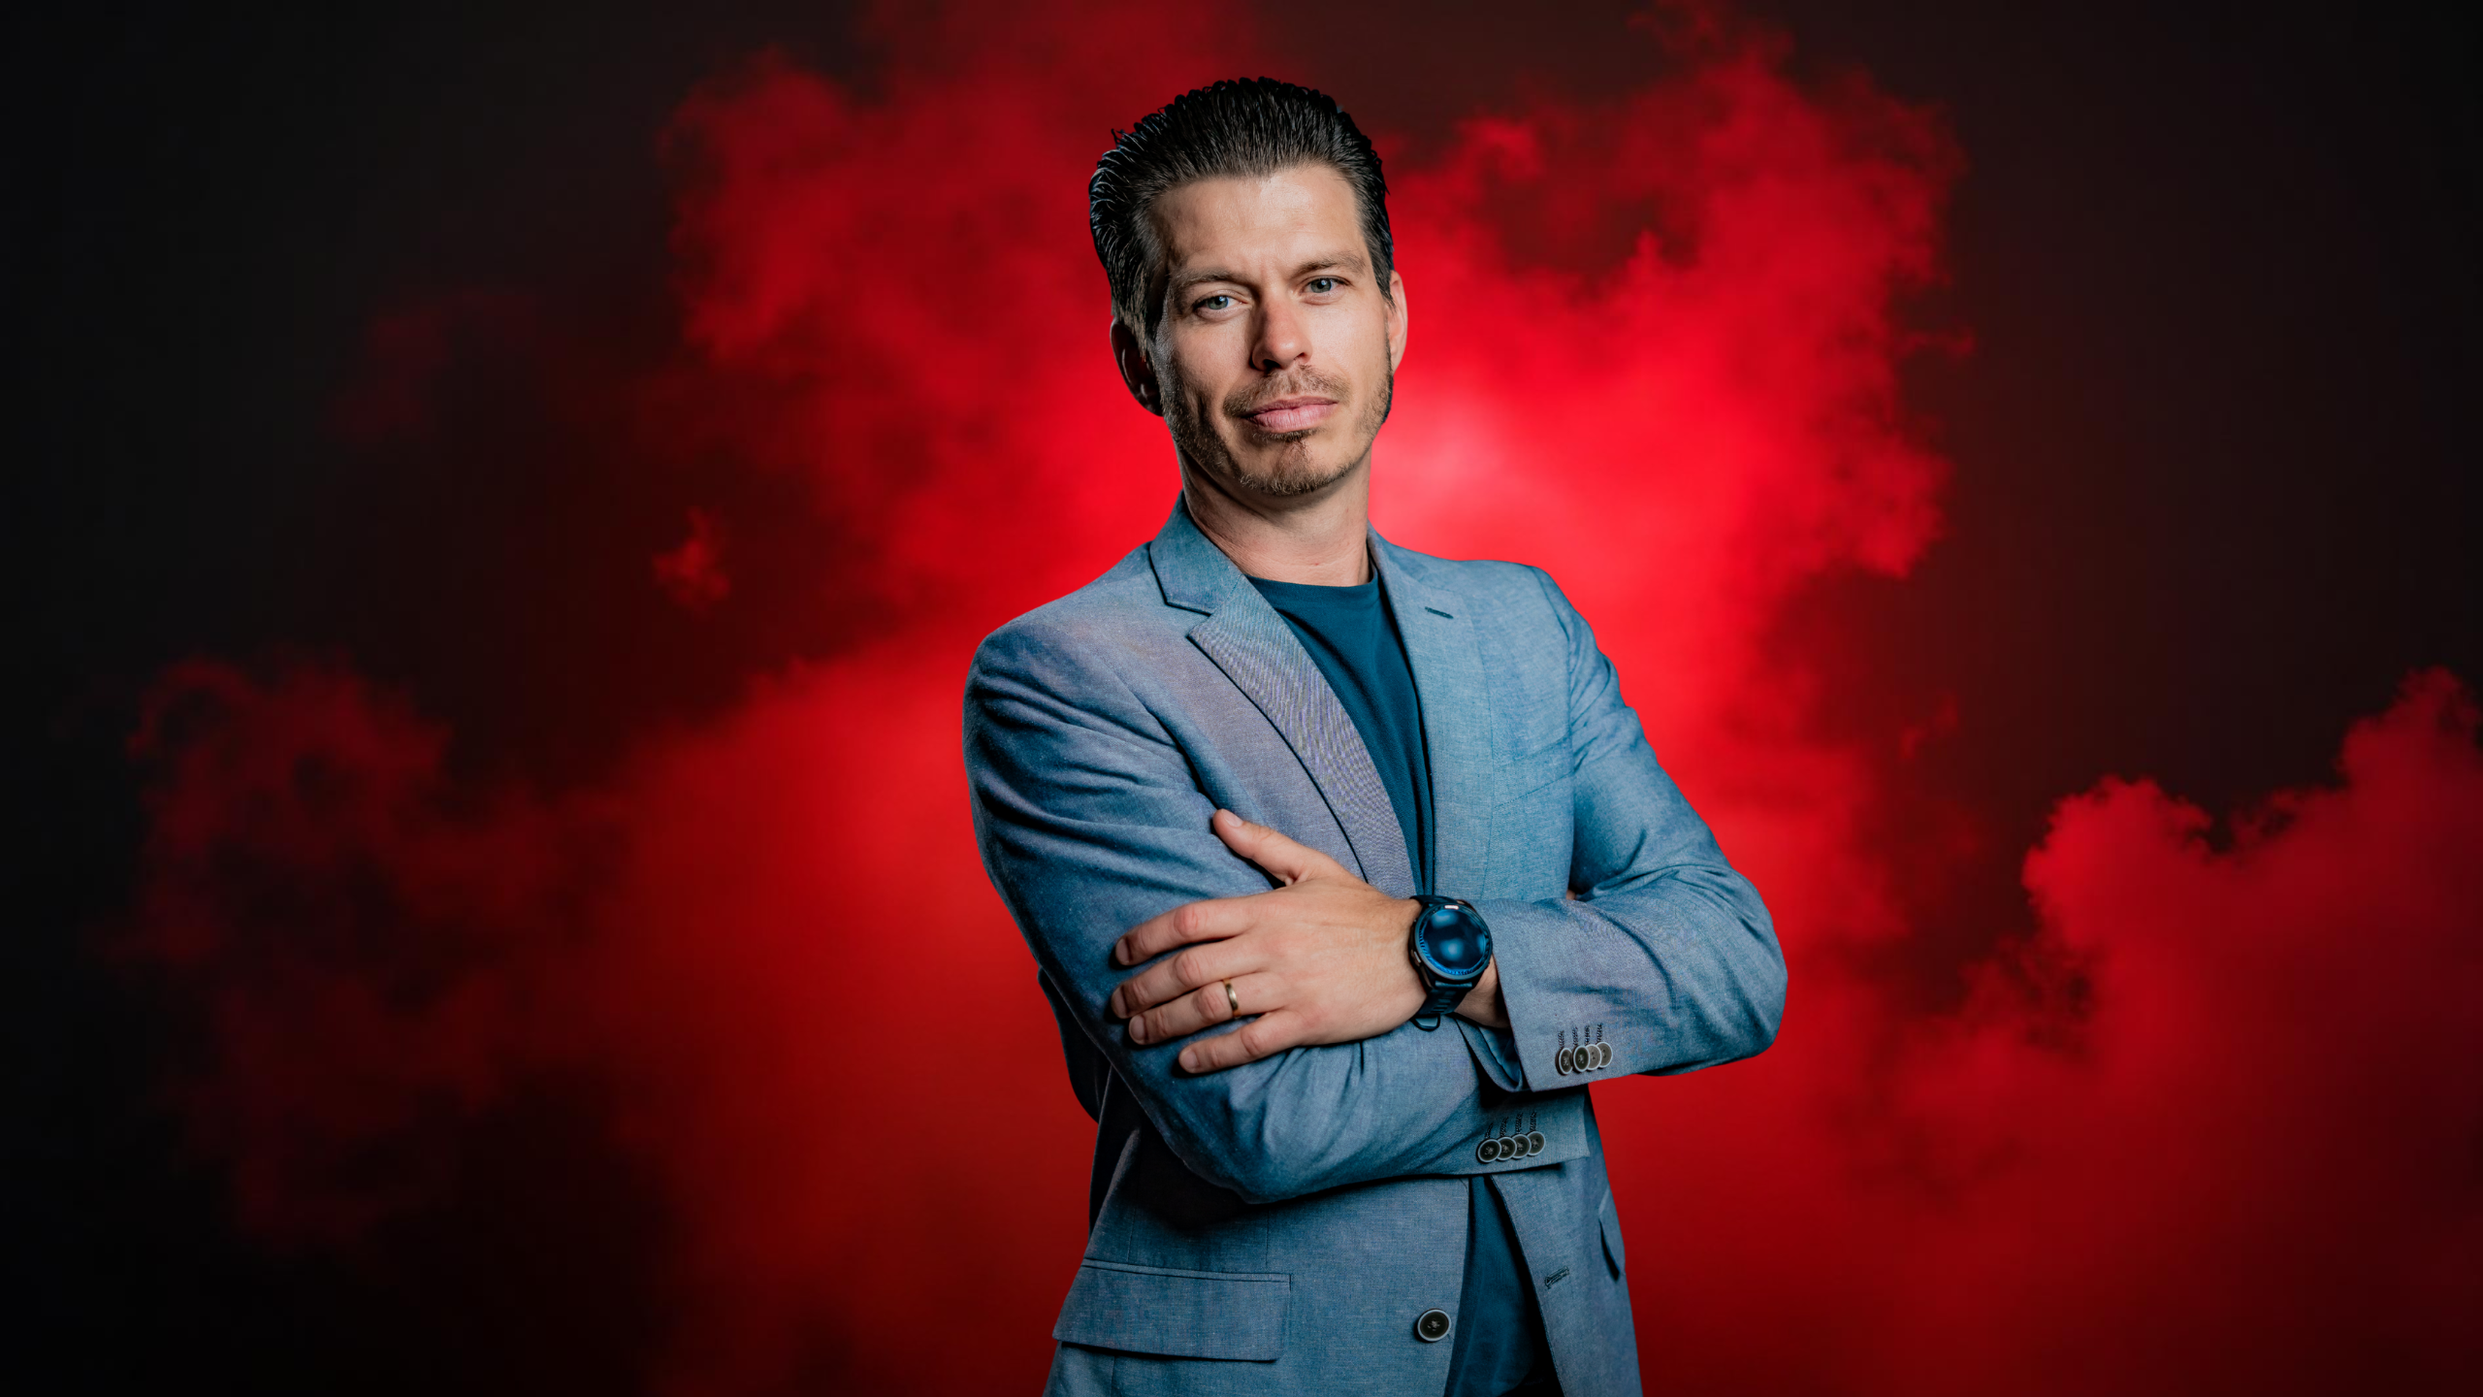
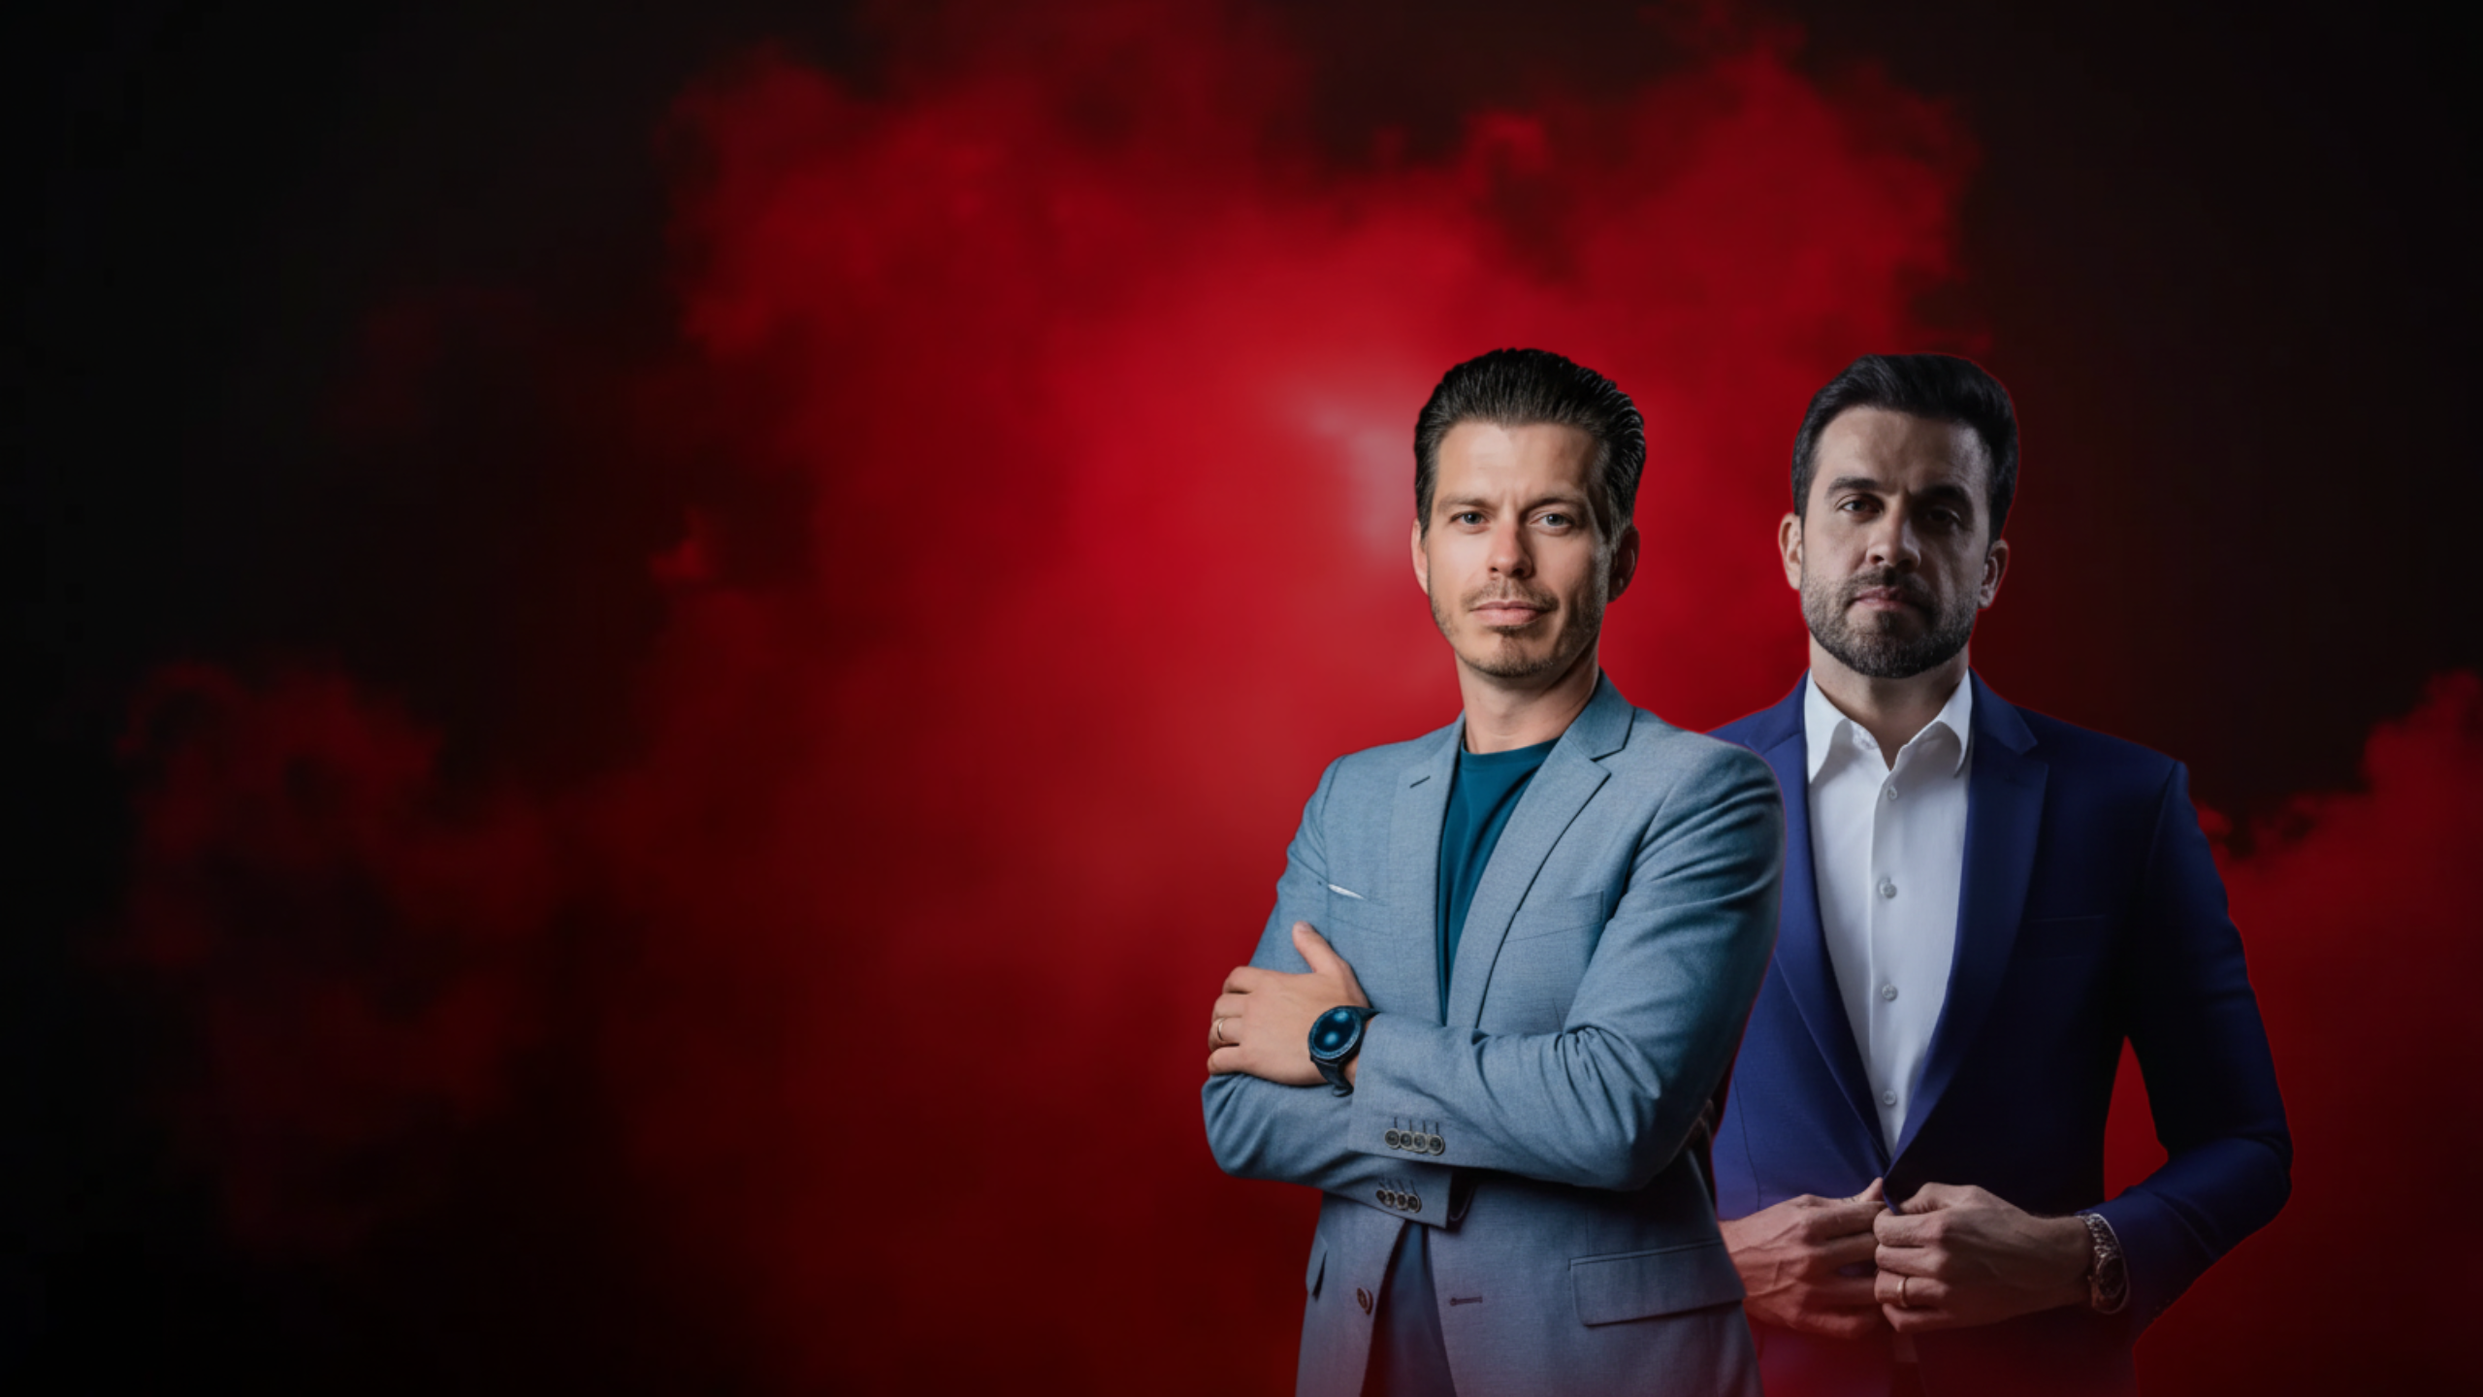
tudo pronto

diff --git a/src/components/HeroSection.tsx b/src/components/HeroSection.tsx
@@ -3,18 +3,31 @@ import { Calendar, MapPin } from "lucide-react";
 import heroImage from "@/assets/hero-image.png";
 import logo from "@/assets/logo.png";
 import { motion } from "framer-motion";
+import imageCelular from "@/assets/heroCelular.png"
+import imageTablete from "@/assets/hero-tablet.png"
+import backmobile from "@/assets/black_red_background.png"
 
 export const HeroSection = () => {
   return (
-    <section className="relative min-h-screen flex items-center justify-center overflow-hidden bg-background pt-16 pb-16 sm:pt-24 sm:pb-24">
-      {/* Background Image */}
+    <section className="relative min-h-screen flex items-center justify-center overflow-hidden bg-background pt-8 pb-16 sm:pt-0 sm:pb-24">
+      
+      {/* Background Image pc */}
       <div
-        className="absolute inset-0 bg-cover bg-center opacity-40"
+        className="absolute inset-0 bg-cover bg-center  hidden md:block"
         style={{ backgroundImage: `url(${heroImage})` }}
       />
 
-      {/* Red Glow Overlay */}
-      <div className="absolute inset-0 bg-gradient-to-r from-background via-transparent to-primary/20" />
+      {/* Background Image tablet */}
+      <div
+        className="absolute inset-0 bg-cover bg-center opacity-80  md:hidden block"
+        style={{ backgroundImage: `url(${backmobile})` }}
+      />
+
+       
+             
+            
+
+
 
       {/* Conteúdo */}
       <div className="container mx-auto px-5 sm:px-8 md:px-10 relative z-10">
@@ -29,76 +42,82 @@ export const HeroSection = () => {
                 className="w-32 sm:w-40 md:w-52 max-w-full"
               />
             </div>
-
-            {/* Informações do Evento */}
-            <div className="hidden sm:flex  flex-wrap justify-center lg:justify-start gap-4 sm:gap-6 text-sm sm:text-base md:text-lg">
-              <div className="flex items-center gap-2">
-                <span className="text-primary">▸</span>
-                <span className="font-semibold">Método REI 26</span>
-              </div>
-              <div className="flex items-center gap-2 text-primary hidden md:inline">
-                <Calendar className="w-4 h-4 sm:w-5 sm:h-5" />
-                <span>06 e 07 Dezembro</span>
-              </div>
-              <div className="flex items-center gap-2 text-primary">
-                <MapPin className="w-4 h-4 sm:w-5 sm:h-5" />
-                <a
-                  href="https://www.google.com.br/maps/place/Crowne+Plaza+Hollywood+Beach/@25.9874362,-80.1200348,17z/"
-                  target="_blank"
-                  rel="noopener noreferrer"
-                  className="hover:underline"
-                >
-                  <span>Abrir no Maps</span>
-                </a>
-              </div>
+            {/* tablete */}
+            <div className="rounded-3xl overflow-hidden hidden sm:block md:hidden shadow-[0_0_25px_rgba(255,0,0,0.3)]">
+              <img src={imageTablete} alt=""/>
             </div>
-            <div className="sm:hidden">
-               <br/>
-                <br/>
-                 <br/>
-                  <br/>
-                   <br/>
+
+             {/* Celular */}
+            <div className="rounded-3xl overflow-hidden sm:hidden shadow-[0_0_25px_rgba(255,0,0,0.3)]">
+              <img src={imageCelular} alt=""/>
             </div>
-           
 
-            {/* Card com animação */}
-            <motion.div
-              initial={{ opacity: 0, y: 80 }}
-              animate={{ opacity: 1, y: 0 }}
-              transition={{ duration: 1.4, ease: "easeOut" }}
-              className="space-y-6  sm:space-y-8 p-5 sm:p-8 md:p-10 rounded-3xl md:bg-white/10 backdrop-blur-xl border border-white/20 shadow-2xl"
-            >
-              {/* Título */}
-              <h2 className="text-2xl sm:text-3xl md:text-4xl lg:text-5xl font-bold leading-snug sm:leading-tight">
-                Em apenas 2 dias, você vai despertar sua verdadeira{" "}
-                <span className="text-primary">IDENTIDADE</span>, alinhar seu{" "}
-                <span className="text-primary">PROPÓSITO</span> e destravar o caminho
-                <br className="hidden md:block" /> para{" "}
-                <span className="text-primary">PROSPERAR</span> em todas as áreas da vida.
-              </h2>
-
-              {/* Descrição */}
-              <p className="text-sm sm:text-base md:text-lg text-muted-foreground leading-relaxed">
-                Em 2 dias, descubra sua IDENTIDADE, alinhe seu PROPÓSITO e prospere em todas as áreas da vida.
-              </p>
-
-              <p className="text-xs sm:text-sm text-muted-foreground leading-relaxed">
-                DOUBLETREE RESORT BY HILTON • 4000 S OCEAN DR. HOLLYWOOD, FL 33019
-              </p>
-
-              {/* Botão CTA */}
-              <div className="flex justify-center lg:justify-start">
-                <a href="https://link.salee.ai/widget/survey/el7zf7YLfRcmP8NN2SM2">
-                <Button
-                  variant="hero"
-                  size="lg"
-                  className="w-full sm:w-auto text-base sm:text-lg px-8 sm:px-12 py-5 h-auto animate-glow"
-                >
-                  QUERO ENTRAR NO MÉTODO IP
-                </Button>
-                </a>
+            
+              {/* Informações do Evento */}
+              <div className="hidden sm:flex  flex-wrap justify-center lg:justify-start gap-4 sm:gap-6 text-sm sm:text-base md:text-lg">
+                <div className="flex items-center gap-2">
+                  <span className="text-primary">▸</span>
+                  <span className="font-semibold">Método REI 26</span>
+                </div>
+                <div className="flex items-center gap-2 text-primary">
+                  <Calendar className="w-4 h-4 sm:w-5 sm:h-5" />
+                  <span>06 e 07 Dezembro</span>
+                </div>
+                <div className="flex items-center gap-2 text-primary">
+                  <MapPin className="w-4 h-4 sm:w-5 sm:h-5" />
+                  <a
+                    href="https://www.google.com.br/maps/place/Crowne+Plaza+Hollywood+Beach/@25.9874362,-80.1200348,17z/"
+                    target="_blank"
+                    rel="noopener noreferrer"
+                    className="hover:underline"
+                  >
+                    <span>Abrir no Maps</span>
+                  </a>
+                </div>
               </div>
-            </motion.div>
+            
+             
+
+
+              {/* Card com animação */}
+              <motion.div
+                initial={{ opacity: 0, y: 80 }}
+                animate={{ opacity: 1, y: 0 }}
+                transition={{ duration: 1.4, ease: "easeOut" }}
+                className="space-y-6  sm:space-y-8 p-5 sm:p-8 md:p-10 rounded-3xl md:bg-white/10 backdrop-blur-xl border border-white/20 shadow-2xl"
+              >
+                {/* Título */}
+                <h2 className="text-xl sm:text-3xl md:text-4xl lg:text-5xl font-bold leading-snug sm:leading-tight">
+                  Em apenas 2 dias, você vai despertar sua verdadeira{" "}
+                  <span className="text-primary">IDENTIDADE</span>, alinhar seu{" "}
+                  <span className="text-primary">PROPÓSITO</span> e destravar o caminho
+                  <br className="hidden md:block" /> para{" "}
+                  <span className="text-primary">PROSPERAR</span> em todas as áreas da vida.
+                </h2>
+
+                {/* Descrição */}
+                <p className="text-sm sm:text-base md:text-lg text-muted-foreground leading-relaxed">
+                  Em 2 dias, descubra sua IDENTIDADE, alinhe seu PROPÓSITO e prospere em todas as áreas da vida.
+                </p>
+
+                <p className="text-xs sm:text-sm text-muted-foreground leading-relaxed">
+                  DOUBLETREE RESORT BY HILTON • 4000 S OCEAN DR. HOLLYWOOD, FL 33019
+                </p>
+
+                {/* Botão CTA */}
+                <div className="flex justify-center lg:justify-start">
+                  <a href="https://link.salee.ai/widget/survey/el7zf7YLfRcmP8NN2SM2">
+                    <Button
+                      variant="hero"
+                      size="lg"
+                      className="w-full sm:w-auto text-sm sm:text-lg px-8 sm:px-12 py-5 h-auto animate-glow"
+                    >
+                      QUERO ENTRAR NO MÉTODO IP
+                    </Button>
+                  </a>
+                </div>
+              </motion.div>
+            
           </div>
         </div>
       </div>

diff --git a/src/components/TargetAudienceSection.tsx b/src/components/TargetAudienceSection.tsx
@@ -2,6 +2,14 @@ import { Card } from "@/components/ui/card";
 import { TrendingUp, Users, Zap } from "lucide-react";
 import { motion } from "framer-motion";
 
+import { Swiper, SwiperSlide } from "swiper/react";
+import { Navigation, Pagination } from "swiper/modules";
+
+import "swiper/css";
+import "swiper/css/navigation";
+import "swiper/css/pagination";
+
+
 const audiences = [
   {
     icon: TrendingUp,
@@ -23,10 +31,16 @@ const audiences = [
   },
 ];
 
+const videos = [
+  "https://player.vimeo.com/video/1083156855?autopause=0&app_id=122963",
+  "https://www.youtube.com/embed/2VKqHAn6Wo4?enablejsapi=1&rel=0&modestbranding=1&playsinline=1&color=white",
+  "https://www.youtube.com/embed/OYxGNUa3KG4?enablejsapi=1&rel=0&modestbranding=1&playsinline=1&color=white",
+  "https://www.youtube.com/embed/62xXLhqWo6I?enablejsapi=1&rel=0&modestbranding=1&playsinline=1&color=white",
+];
+
 export const TargetAudienceSection = () => {
   return (
     <section className="py-5 md:py-28 bg-dark-surface relative overflow-hidden">
-      {/* Fundo translúcido */}
       <div className="absolute inset-0 bg-gradient-to-b from-primary/5 via-transparent to-transparent" />
 
       <div className="relative container mx-auto px-6">
@@ -41,7 +55,7 @@ export const TargetAudienceSection = () => {
           </p>
         </div>
 
-        {/* Grid de cards */}
+        {/* Cards */}
         <div className="grid sm:pt-10 md:grid-cols-2 lg:grid-cols-3 gap-3">
           {audiences.map((audience, index) => {
             const Icon = audience.icon;
@@ -72,6 +86,34 @@ export const TargetAudienceSection = () => {
             );
           })}
         </div>
+
+        {/* Carrossel de Vídeos */}
+        <div className="mt-16">
+          <Swiper
+            modules={[Navigation, Pagination]}
+            spaceBetween={20}
+            slidesPerView={1}
+            centeredSlides
+            loop
+            pagination={{ clickable: true }}
+            navigation
+            className="rounded-xl overflow-hidden"
+          >
+            {videos.map((url, idx) => (
+              <SwiperSlide key={idx}>
+                <div className="w-full aspect-video rounded-xl overflow-hidden">
+                  <iframe
+                    src={url}
+                    className="w-full h-full"
+                    allow="accelerometer; autoplay; encrypted-media; gyroscope; picture-in-picture"
+                    allowFullScreen
+                  />
+                </div>
+              </SwiperSlide>
+            ))}
+          </Swiper>
+        </div>
+
       </div>
     </section>
   );

diff --git a/src/components/Footer.tsx b/src/components/Footer.tsx
@@ -27,11 +27,11 @@ export const Footer = () => {
             <div className="space-y-3 text-sm text-muted-foreground">
               <div className="flex  sm:justify-start items-center gap-2">
                 <Mail className="w-4 h-4 text-primary" />
-                <span>contato@metodrei.com</span>
+                <span>info@bclub.global</span>
               </div>
               <div className="flex  sm:justify-start items-center gap-2">
                 <Phone className="w-4 h-4 text-primary" />
-                <span>+351 21 123 4567</span>
+                <span>+1 (689) 302-4511</span>
               </div>
               <div className="flex  sm:justify-start items-center gap-2">
                 <MapPin className="w-4 h-4 text-primary" />

diff --git a/src/components/FAQSection.tsx b/src/components/FAQSection.tsx
@@ -82,7 +82,7 @@ export const FAQSection = () => {
               <AccordionTrigger className="text-left p-2 text-base sm:text-lg md:text-xl font-semibold text-foreground hover:text-primary transition-colors">
                 {faq.question}
               </AccordionTrigger>
-              <AccordionContent className="text-sm sm:text-base text-muted-foreground leading-relaxed pt-2 pb-4">
+              <AccordionContent className="text-sm sm:text-base text-muted-foreground leading-relaxed p-2 pb-4">
                 {faq.answer}
               </AccordionContent>
             </AccordionItem>

diff --git a/src/components/PricingSection.tsx b/src/components/PricingSection.tsx
@@ -51,7 +51,7 @@ export const PricingSection = () => {
                   <Button
                     variant="hero"
                     size="lg"
-                    className="text-base sm:text-lg px-8 sm:px-12 py-4 sm:py-6 h-auto animate-glow w-full sm:w-auto"
+                    className="text-sm sm:text-lg px-8 sm:px-12 py-4 sm:py-6 h-auto animate-glow w-full sm:w-auto"
                   >
                     QUERO ENTRAR NO MÉTODO IP
                   </Button>

diff --git a/src/components/ChoiceSection.tsx b/src/components/ChoiceSection.tsx
@@ -58,7 +58,7 @@ export const ChoiceSection = () => {
           <Button
             variant="hero"
             size="lg"
-            className="w-full sm:w-auto text-base sm:text-lg px-10 sm:px-12 py-5 sm:py-6 h-auto animate-glow"
+            className="w-full sm:w-auto text-sm sm:text-lg px-10 sm:px-12 py-5 sm:py-6 h-auto animate-glow"
           >
             QUERO ENTRAR NO MÉTODO IP
           </Button>
